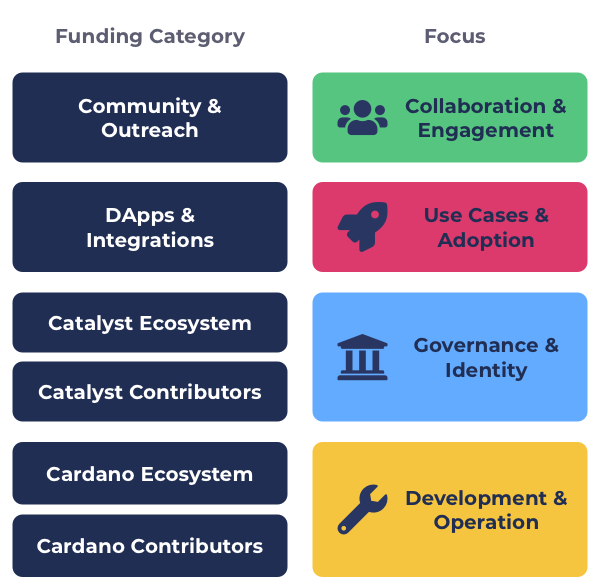
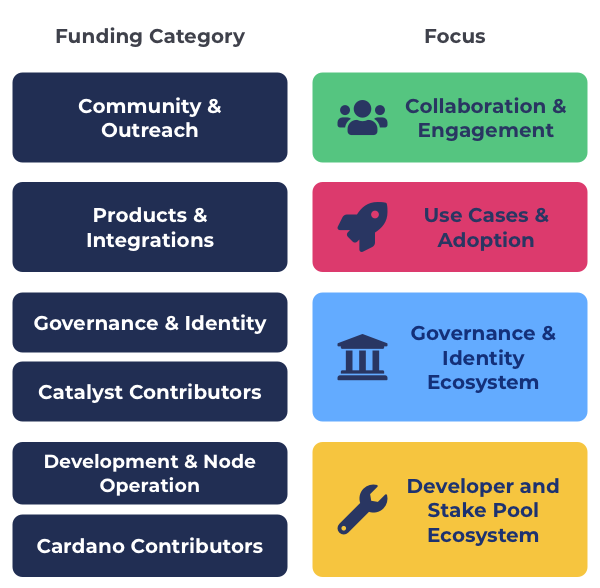
GitBook: [#17] No subject

diff --git a/analysis/categorisation-comparisons.md b/analysis/categorisation-comparisons.md
@@ -20,8 +20,8 @@ Using different defined areas of the ecosystem as funding categories.
 
 **Categories**
 
-* **Catalyst Ecosystem** - Proposals about maintaining, improving and supporting Catalyst as the governance solution for the Cardano treasury and improving governance and identity tools.
-* **Cardano Ecosystem** - Proposals for improving and maintaining the development ecosystem for Cardano and also supporting the operation of stake pool nodes.
+* **Governance & Identity** - Proposals about maintaining, improving and supporting Catalyst as the governance solution for the Cardano treasury and improving governance and identity tools.
+* **Development & Node Operation** - Proposals for improving and maintaining the development ecosystem for Cardano and also supporting the operation of stake pool nodes.
 * **Products & Integrations** - Proposals for projects building on top of Cardano.
 * **Community & Outreach** - Proposals that do outreach to anyone outside of the community and for engagement within the community.
 
@@ -29,8 +29,8 @@ Using different defined areas of the ecosystem as funding categories.
 
 **How it might be used**
 
-* **Those helping improve Catalyst** - Use the Catalyst Ecosystem category.
-* **Those helping improve Cardano** - Use the Cardano Ecosystem category.
+* **Those helping improve Catalyst** - Use the Governance & Identity category.
+* **Those helping improve Cardano** - Use the Development & Node Operation category.
 * **Those building products & integrations** - Use the Products & Integrations category.
 * **Those doing outreach and building community** - Use the Community & Outreach category.
 
@@ -138,8 +138,8 @@ Using a combination of the above approaches in a combined category approach. Thi
 
 **Categories** - Example combination given using categories mentioned above
 
-* **Catalyst Ecosystem**
-* **Cardano Ecosystem**
+* **Governance & Identity**
+* **Development & Node Operation**
 * **Africa**
 * **Latin America**
 * **Japan**
@@ -178,7 +178,7 @@ Using a combination of the above approaches in a combined category approach. Thi
 * Locations add a lot of complexity around budget weighting, causing complexity from multiple split up proposals and creates harder justification for how to decide which countries and areas to group together or keep separate as over 190 country categories would not be practical. Locations as categorisation do not map well with most ecosystem tools and DApps that are built to be global.
 * Organisation functions could be effective at directing funding to more specific areas within Cardano and Catalyst however when those same ecosystems use the same categories it makes it harder to direct funding between them. The increase in budget weighting complexity is also a concern.
 * Category combinations make most areas more complex around justification, budget weighting and the governance surrounding it. The benefits of this approach of simpler categorisation are not clear making it a less attractive approach.
-* Ecosystem areas is the simplest categorisation approach and effectively allows the community to direct funding between Catalyst, Cardano, Products & Integrations and Community & Outreach efforts. Another reason ecosystem areas is an effective approach is that organisation functions can also be covered by complementary categories that fund contributors full time which are suggested in the [categories](../funding-categories/categories/).
+* Ecosystem areas is the simplest categorisation approach and effectively allows the community to direct funding between Governance & Identity, Development & Node Operation, Products & Integrations and Community & Outreach efforts. Another reason ecosystem areas is an effective approach is that organisation functions can also be covered by complementary categories that fund contributors full time which are suggested in the [categories](../funding-categories/categories/).
 
 ****
 

diff --git a/funding-categories/categories/governance-and-identity.md b/funding-categories/categories/governance-and-identity.md
@@ -1,24 +1,24 @@
 ---
-description: Catalyst Ecosystem category proposal
+description: Governance & Identity category proposal
 ---
 
-# Catalyst Ecosystem
+# Governance & Identity
 
 **Category Title**
 
-Catalyst Ecosystem
+Governance & Identity
 
 **Category question**
 
-What tools, processes, support and research will help to improve the governance and identity used in Catalyst and the wider ecosystem?
+What tools, processes and research will improve governance or identity in the Catalyst ecosystem or for applications building on Cardano?
 
 **Why is it important?**
 
-The Cardano ecosystem needs effective governance and identity tools to support the distribution of the treasury and applications building on Cardano.
+There is a need for effective governance and identity tools to support making it easier for application development and evolution of Catalyst
 
 **How does success look like?**
 
-Continuous improvement and evolution of the governance and identity ecosystem tools, processes and resources to improve Catalyst and other applications governance.
+Continuous improvement and evolution of the governance and identity ecosystem tools, processes and resources to improve Catalyst or other Cardano applications
 
 **Key Metrics to measure**
 
@@ -30,11 +30,11 @@ Please refer to the suggested challenge brief success metrics ideas for differen
 
 **Overview**
 
-Catalyst Ecosystem is focused on the following areas:
+Governance & Identity is focused on the following areas:
 
-* Tools, libraries and SDKs that help with improving governance and identity around the systems we use including Catalyst and for the wider ecosystem applications.&#x20;
-* Resources, processes, documentation, mentors and accelerators that make it easier to participate and engage in the governance process in Catalyst.
-* Research and analysis that help drive novel or improved approaches for governance that can be used in the Catalyst and wider ecosystem.
+* Tools, libraries and SDKs that help with improving governance and identity around the systems we use including Catalyst or also to be used by wider ecosystem applications.&#x20;
+* Resources, processes, documentation, mentors and accelerators that make it easier to participate and engage in the Catalyst governance process.
+* Research, analysis or reports that help drive novel or improved approaches for governance or identity that can be used in the Catalyst or wider ecosystem.
 
 ****
 
@@ -42,9 +42,9 @@ Catalyst Ecosystem is focused on the following areas:
 
 Catalyst provides the governance process for the distribution of Cardano treasury funding.&#x20;
 
-To maximise the potential of the ecosystem there is a need for effective and robust governance to help distribute treasury funding that will create a thriving community, development ecosystem and growing list of DApps and integrations.
+To maximise the potential of the ecosystem there is a need for effective and robust governance and identity tools to help distribute treasury funding. Achieving this will create a thriving community, an easier to use development ecosystem and nurture a growing list of products and integrations.
 
-The better that Catalyst is able to effectively help with governing and distributing funds the faster the ecosystem can create the innovations and adoption needed for Cardano to thrive as a ecosystem.
+The better that Catalyst is able to effectively help with governing and distributing funds the faster the ecosystem can create the innovations and adoption needed for Cardano to thrive. The better open source tools are made available for governance and identity within the ecosystem the faster interesting and novel solutions can be deployed.
 
 
 

diff --git a/funding-categories/categories/development-and-node-operation.md b/funding-categories/categories/development-and-node-operation.md
@@ -2,23 +2,23 @@
 description: Cardano Ecosystem category proposal
 ---
 
-# Cardano Ecosystem
+# Development & Node Operation
 
 **Category Title**
 
-Cardano Ecosystem
+Development & Node Operation
 
 **Category question**
 
-What new resources, tools, libraries, SDKs, scripts or research can help those trying to run a node to secure the Cardano network or those building out the developer ecosystem?&#x20;
+What resources, tools, libraries, SDKs, scripts or research can help those trying to run a node to secure the Cardano network or those building out the developer ecosystem?&#x20;
 
 **Why is it important?**
 
-The Cardano ecosystem needs to be easy and efficient for new operators to run nodes to secure the network and for new developers to build applications and integrations.
+The Cardano ecosystem needs to be easy and efficient for new operators to run nodes to secure the network and for developers to easily build applications and integrations.
 
 **How does success look like?**
 
-New or improvements of resources, tools, libraries, SDKs, scripts or research that improve the Cardano developer ecosystem or the operation of stake pool nodes.
+Innovation of resources, tools, libraries, SDKs, scripts or research that improve the Cardano developer ecosystem or the operation of stake pool nodes.
 
 **Key Metrics to measure**
 
@@ -30,20 +30,20 @@ Please refer to the suggested challenge brief success metrics ideas for differen
 
 **Overview**
 
-Cardano Ecosystem is focused on the following areas:
+Development & Node Operation is focused on the following areas:
 
-* Creation and improvement of tools, scripts, libraries and SDKs that help make it easier for projects to develop on Cardano and for the community to operate nodes in the network.
-* Research, analysis and creation of standards, resources or documentation that bring either novel innovation to the ecosystem or help with improving the education of the existing ecosystem.
+* Creation and improvement of tools, scripts, libraries and SDKs that help make it easier for projects to develop on Cardano and for the community to operate stake pool nodes in the network.
+* Research, analysis and creation of standards, resources or documentation that bring either novel innovation to the ecosystem or help with improving the education around what is available in the ecosystem for development or node operation.
 
 ****
 
 **Why this category is important**
 
-The Cardano developer ecosystem and operation of stake pool nodes need to be easy for newcomers and budding talent to get involved with and learn.
+The Cardano developer ecosystem and operation of stake pool nodes need to be easy for newcomers and budding talent to start learning and using.
 
 To make it easy to develop projects on Cardano as well as operate the network there is a need for high quality resources, standards, tools, scripts, libraries and SDKs for developers and operators to use.
 
-The higher quality and more thorough the developer and stake pool node ecosystem is for Cardano the faster that people can be onboarded and build out applications that the high quality and security standards that ecosystem needs to thrive.
+The higher quality and more thorough the developer and stake pool node ecosystem is for Cardano the faster that people can be onboarded and build out applications to a high quality and security standard.
 
 
 

diff --git a/funding-categories/categories/README.md b/funding-categories/categories/README.md
@@ -6,7 +6,7 @@ description: A list of suggested categories to use for allocating Catalyst fundi
 
 The following are the suggested broad categories that provide a simpler way to do [funding allocation](../../analysis/funding-categorisation-specificity.md). The categories below are inclusive in that they should allow for any type of idea or innovation to be included in any given funding round.
 
-![](../../.gitbook/assets/funding-categories.png)
+![](<../../.gitbook/assets/funding-categories (1).png>)
 
 **Community & Outreach**
 
@@ -24,11 +24,11 @@ The products and integrations category focusses on helping fund projects looking
 
 ****
 
-**Catalyst Ecosystem**&#x20;
+**Governance & Identity**
 
-The Catalyst ecosystem category focusses on proposals that will help with improve and support the Catalyst ecosystem that managed the Cardano treasury. It also aims to help with providing wider ecosystem support with tools, libraries and SDKs concerning governance and identity.
+The Governance & Identity category focusses on proposals that will help with improve and support both Catalyst and the wider ecosystem with tools, libraries, SDKs, processes or research that help lead to integrating better governance and identity solutions.
 
-**=>** [**Read the Catalyst Ecosystem category brief**](catalyst-ecosystem.md)
+**=>** [**Read the Governance & Identity category brief**](governance-and-identity.md)
 
 ****
 
@@ -40,11 +40,11 @@ The Catalyst ecosystem category focusses on proposals that will help with improv
 
 ****
 
-**Cardano Ecosystem**&#x20;
+**Development & Node Operation**
 
-The Cardano ecosystem category looks for proposals that will help improve and maintain the Cardano developer ecosystem with tools, scripts, libraries and SDKs that would make it easier for developers to build new applications. It also looks at supporting the stake pool operation with tools and resources to make it as easy as possible for people to help secure the network by running a stake pool node.
+The Development & Node Operation category looks for proposals that will help improve and maintain the Cardano developer ecosystem with tools, scripts, libraries and SDKs that make it easier for developers to build applications. It also looks at supporting stake pool operation with tools and resources that will make it as easy as possible for people to help secure the network by running a stake pool node.
 
-**=>** [**Read the Cardano Ecosystem category brief**](cardano-ecosystem.md)****
+**=>** [**Read the Development & Node Operation category brief**](development-and-node-operation.md)****
 
 ****
 

diff --git a/funding-categories/categories-and-existing-challenges.md b/funding-categories/categories-and-existing-challenges.md
@@ -78,9 +78,9 @@ Every existing challenge fits into the suggested broad funding categories. For t
 
 ****
 
-**Catalyst Ecosystem**
+**Governance & Identity**
 
-* [Grow India, Grow Cardano](https://cardano.ideascale.com/c/campaigns/26454/about) (fund 8)
+* ****[Grow India, Grow Cardano](https://cardano.ideascale.com/c/campaigns/26454/about) (fund 8)
 * [Community Advisor Improvements](https://cardano.ideascale.com/c/campaigns/26453/about) (fund 8)
 * [Self-Sovereign Identity](https://cardano.ideascale.com/c/campaigns/26451/about) (fund 8)
 * [Open Standards & Interoperability](https://cardano.ideascale.com/c/campaigns/26449/about) (fund 8)
@@ -117,7 +117,7 @@ Every existing challenge fits into the suggested broad funding categories. For t
 
 
 
-**Cardano Ecosystem**
+**Development & Node Operation**
 
 * [Grow India, Grow Cardano](https://cardano.ideascale.com/c/campaigns/26454/about) (fund 8)
 * [Open Standards & Interoperability](https://cardano.ideascale.com/c/campaigns/26449/about) (fund 8)

diff --git a/SUMMARY.md b/SUMMARY.md
@@ -8,9 +8,9 @@
 * [Categories](funding-categories/categories/README.md)
   * [Community & Outreach](funding-categories/categories/community-and-outreach.md)
   * [Products & Integrations](funding-categories/categories/products-and-integrations.md)
-  * [Catalyst Ecosystem](funding-categories/categories/catalyst-ecosystem.md)
+  * [Governance & Identity](funding-categories/categories/governance-and-identity.md)
   * [Catalyst Contributors](https://catalyst-swarm.gitbook.io/catalyst-contributors/category-proposal/fund-8)
-  * [Cardano Ecosystem](funding-categories/categories/cardano-ecosystem.md)
+  * [Development & Node Operation](funding-categories/categories/development-and-node-operation.md)
   * [Cardano Contributors](https://catalyst-swarm.gitbook.io/cardano-contributors/category-proposal/fund-8)
 * [Rapid Funding](funding-categories/rapid-funding.md)
 * [Categories & Existing Challenges](funding-categories/categories-and-existing-challenges.md)

diff --git a/community-discussion/budget-weighting-considerations.md b/community-discussion/budget-weighting-considerations.md
@@ -42,7 +42,7 @@ The following are suggestions to consider when giving feedback on the budget wei
 
 
 
-### Catalyst Ecosystem
+### Governance & Identity
 
 **Reasons for a larger initial budget weighting**
 
@@ -69,7 +69,7 @@ The following are suggestions to consider when giving feedback on the budget wei
 
 
 
-### Cardano Ecosystem
+### Development & Node Operation
 
 **Reasons for a larger initial budget weighting**
 
